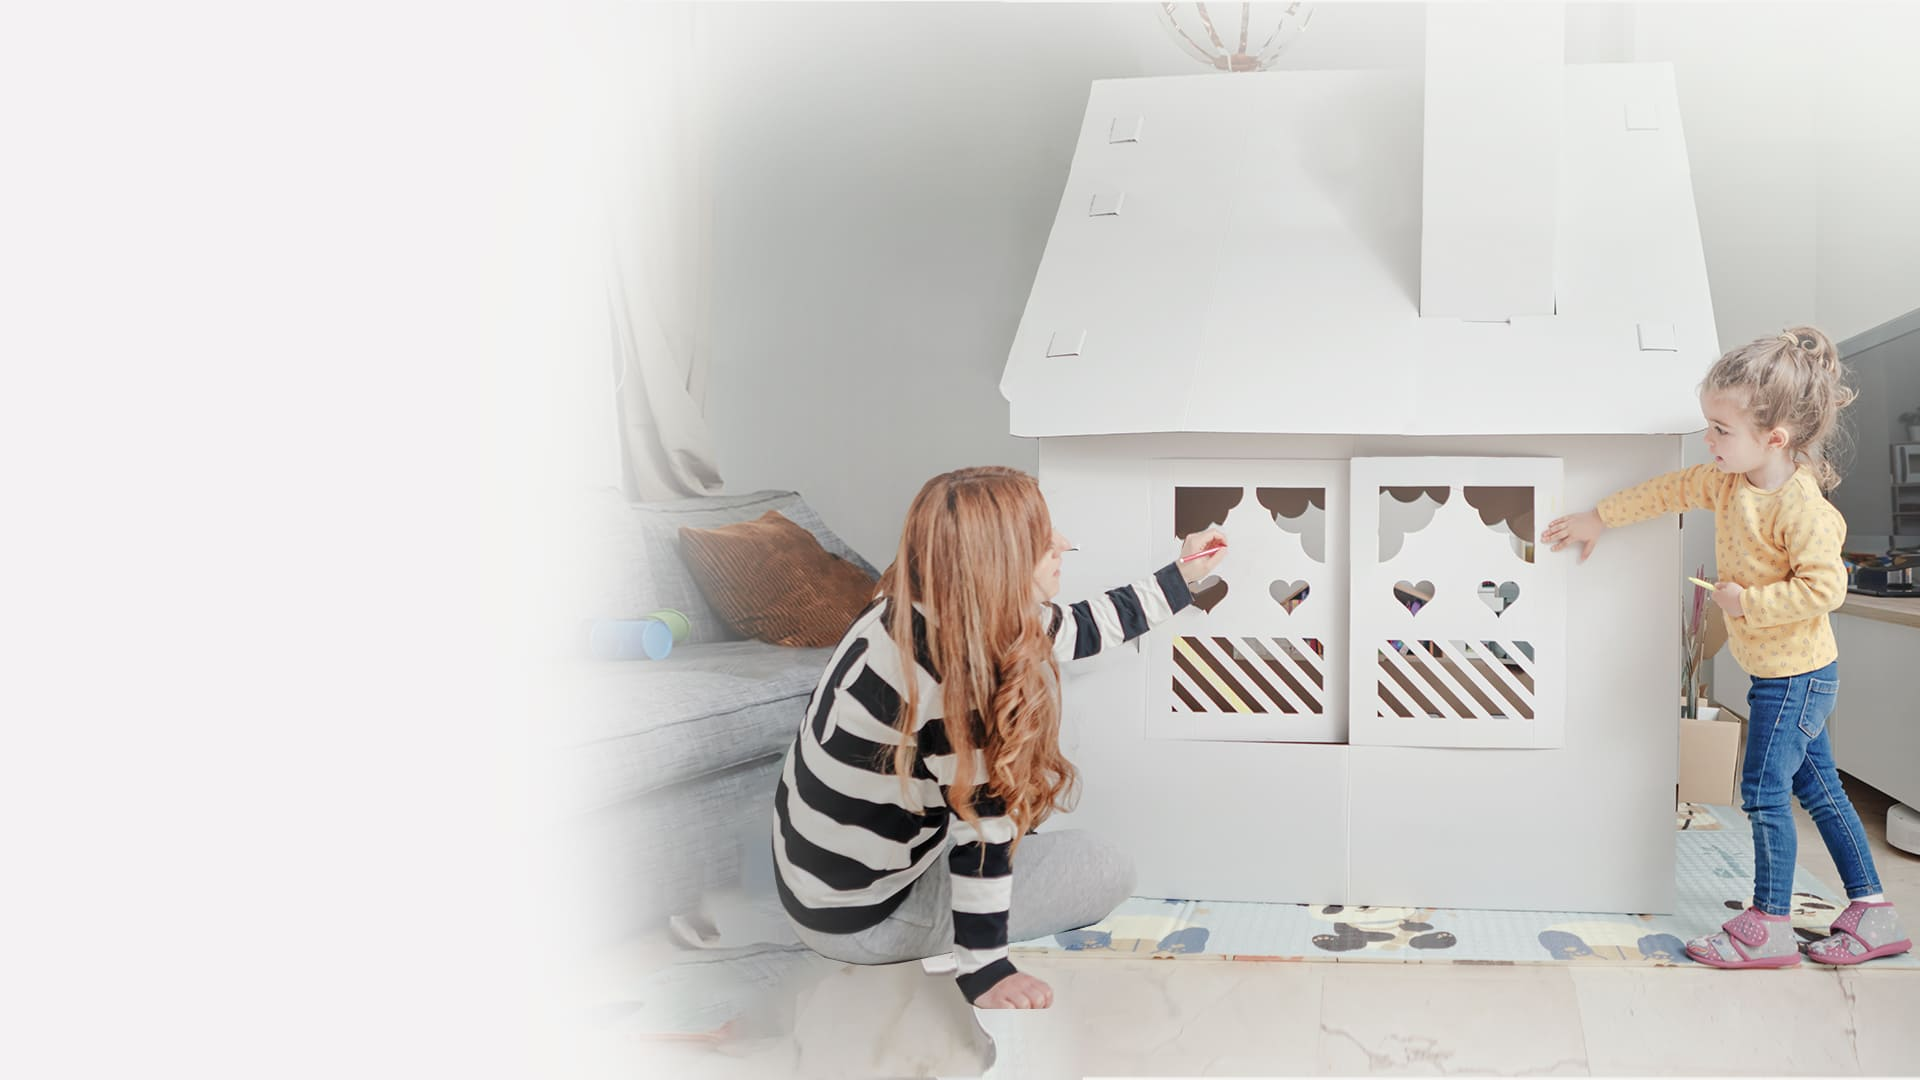
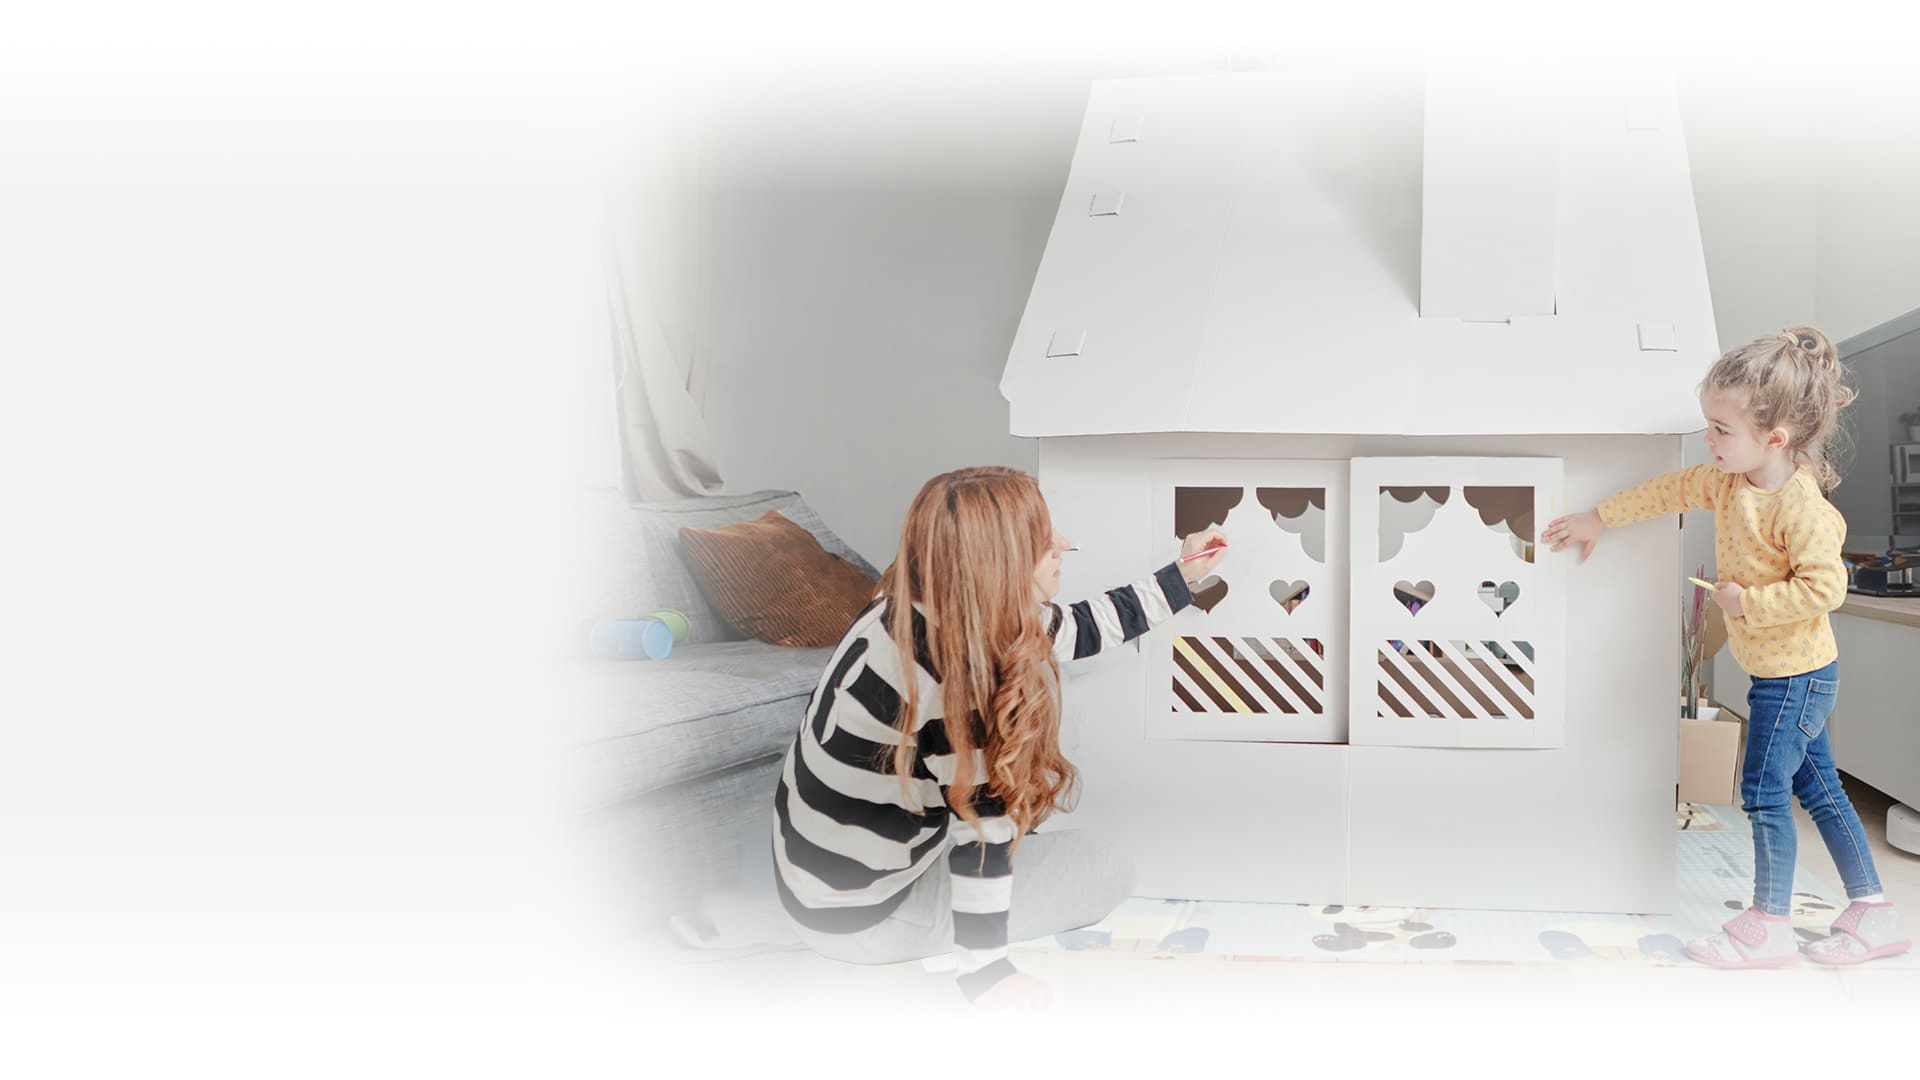
240x400

Changed region(s): [[0.3125, 0.7639, 1.0, 1.0], [0.375, 0.0, 0.75, 0.1528], [0.8125, 0.0, 0.875, 0.0611]]

diff --git a/portfolio/VTB24/ipoteka/matkap/240x400/index.css b/portfolio/VTB24/ipoteka/matkap/240x400/index.css
@@ -36,23 +36,26 @@ body {
 .banner {
   position: relative;
   cursor: pointer;
+  border: 1px solid;
+  box-sizing: border-box;
+  background: #fff;
 }
 
 .background {
   position: absolute;
   width: 100%;
-  height: 100%;
-  top: 0;
+  height: 65%;
+  top: 33px;
   z-index: 1;
   -o-object-fit: cover;
      object-fit: cover;
-  -o-object-position: right;
-     object-position: right;
+  -o-object-position: -210px 0;
+     object-position: -210px 0;
 }
 
 .background_second-slide {
   transform: scale(1.15) translateX(-15px);
-  transition: 10s linear;
+  transition: 7s linear;
 }
 
 .background_third-slide {
@@ -74,7 +77,7 @@ body {
 .plate {
   width: 240px;
   position: absolute;
-  bottom: 50px;
+  bottom: 30px;
   z-index: 1;
   left: -20px;
   transform: translateX(-100%);
@@ -85,51 +88,15 @@ body {
   width: 130px;
   position: absolute;
   z-index: 2;
-  bottom: 25px;
+  bottom: 5px;
   right: 65px;
   transition: 1s cubic-bezier(0.31, -0.26, 0.52, 1.38);
   transform: scale(0);
 }
 
 .percent_modif {
-  bottom: 75px;
+  bottom: 55px;
   right: 75px;
-}
-
-@-webkit-keyframes scale {
-  0% {
-    transform: scale(1);
-  }
-  50% {
-    transform: scale(1.07);
-  }
-  100% {
-    transform: scale(1);
-  }
-}
-
-@keyframes scale {
-  0% {
-    transform: scale(1);
-  }
-  50% {
-    transform: scale(1.07);
-  }
-  100% {
-    transform: scale(1);
-  }
-}
-.scale-anim {
-  -webkit-animation: scale;
-          animation: scale;
-  -webkit-animation-duration: 10s;
-          animation-duration: 10s;
-  -webkit-animation-iteration-count: infinite;
-          animation-iteration-count: infinite;
-  -webkit-animation-fill-mode: both;
-          animation-fill-mode: both;
-  -webkit-animation-timing-function: ease-in-out;
-          animation-timing-function: ease-in-out;
 }
 
 .title {
@@ -137,7 +104,7 @@ body {
   display: flex;
   flex-direction: column;
   color: #fff;
-  bottom: 63px;
+  bottom: 43px;
   left: 10px;
   z-index: 3;
   margin: 0;
@@ -166,12 +133,12 @@ body {
 .description {
   font-family: "VTB", sans-serif;
   font-weight: 400;
-  width: 170px;
+  width: 130px;
   font-size: 16px;
   line-height: 1.2;
   position: absolute;
   font-weight: 300;
-  bottom: 60px;
+  bottom: 39px;
   left: 10px;
   z-index: 4;
   color: #fff;
@@ -182,7 +149,7 @@ body {
 
 .description-three {
   width: 150px;
-  bottom: 120px;
+  bottom: 100px;
   font-size: 16px;
 }
 .description-three span {
@@ -194,19 +161,19 @@ body {
   z-index: 1;
   width: 50px;
   max-height: 100px;
-  bottom: 60px;
+  bottom: 44px;
   left: 135px;
   transition: 0.5s ease-out;
   opacity: 0;
 }
 
 #documents {
-  left: 192px;
+  left: 138px;
 }
 
 .button {
   font-family: "VTB", sans-serif;
-  font-size: 24px;
+  font-size: 20px;
   font-weight: 300;
   letter-spacing: 1px;
   text-transform: uppercase;
@@ -218,7 +185,7 @@ body {
   color: #fff;
   background: #00aaff;
   border: none;
-  border-radius: 5px;
+  border-radius: 10px;
   transition: 0.3s;
   transform: translateX(200px);
 }
@@ -237,6 +204,10 @@ body {
   z-index: 10;
   opacity: 0;
   transition: 1s;
+}
+
+.disclamer_bolder {
+  font-weight: 400;
 }
 
 .disclamer__text {

diff --git a/portfolio/VTB24/ipoteka/matkap/240x400/index.scss b/portfolio/VTB24/ipoteka/matkap/240x400/index.scss
@@ -14,21 +14,24 @@ body {
 .banner {
     position: relative;
     cursor: pointer;
+    border: 1px solid;
+    box-sizing: border-box;
+    background: #fff;
 }
 
 .background {
     position: absolute;
     width: 100%;
-    height: 100%;
-    top: 0;
+    height: 65%;
+    top: 33px;
     z-index: 1;
     object-fit: cover;
-    object-position: right;
+    object-position: -210px 0;
 }
 
 .background_second-slide {
     transform: scale(1.15) translateX(-15px);
-    transition: 10s linear;
+    transition: 7s linear;
 }
 .background_third-slide {
     transform: scale(1.25) translateX(-23px);
@@ -48,7 +51,7 @@ body {
 .plate {
     width: 240px;
     position: absolute;
-    bottom: 50px;
+    bottom: 30px;
     z-index: 1;
     left: -20px;
     transform: translateX(-100%);
@@ -59,35 +62,15 @@ body {
     width: 130px;
     position: absolute;
     z-index: 2;
-    bottom: 25px;
+    bottom: 5px;
     right: 65px;
     transition: 1s cubic-bezier(0.31, -0.26, 0.52, 1.38);
     transform: scale(0);
 }
 
 .percent_modif {
-    bottom: 75px;
+    bottom: 55px;
     right: 75px;
-}
-
-@keyframes scale {
-    0% {
-        transform: scale(1);
-    }
-    50% {
-        transform: scale(1.07);
-    }
-    100% {
-        transform: scale(1);
-    }
-}
-
-.scale-anim {
-    animation: scale;
-    animation-duration: 10s;
-    animation-iteration-count: infinite;
-    animation-fill-mode: both;
-    animation-timing-function: ease-in-out;
 }
 
 .title {
@@ -95,7 +78,7 @@ body {
     display: flex;
     flex-direction: column;
     color: #fff;
-    bottom: 63px;
+    bottom: 43px;
     left: 10px;
     z-index: 3;
     margin: 0;
@@ -124,12 +107,12 @@ body {
 .description {
     font-family: "VTB", sans-serif;
     font-weight: 400;
-    width: 170px;
+    width: 130px;
     font-size: 16px;
     line-height: 1.2;
     position: absolute;
     font-weight: 300;
-    bottom: 60px;
+    bottom: 39px;
     left: 10px;
     z-index: 4;
     color: #fff;
@@ -140,7 +123,7 @@ body {
 
 .description-three {
     width: 150px;
-    bottom: 120px;
+    bottom: 100px;
     font-size: 16px;
 
     span {
@@ -153,19 +136,19 @@ body {
     z-index: 1;
     width: 50px;
     max-height: 100px;
-    bottom: 60px;
+    bottom: 44px;
     left: 135px;
     transition: 0.5s ease-out;
     opacity: 0;
 }
 
 #documents {
-    left: 192px;
+    left: 138px;
 }
 
 .button {
     font-family: "VTB", sans-serif;
-    font-size: 24px;
+    font-size: 20px;
     font-weight: 300;
     letter-spacing: 1px;
     text-transform: uppercase;
@@ -177,7 +160,7 @@ body {
     color: #fff;
     background: #00aaff;
     border: none;
-    border-radius: 5px;
+    border-radius: 10px;
     transition: 0.3s;
     transform: translateX(200px);
 
@@ -197,6 +180,10 @@ body {
     z-index: 10;
     opacity: 0;
     transition: 1s;
+}
+
+.disclamer_bolder {
+    font-weight: 400;
 }
 
 .disclamer__text {

diff --git a/portfolio/VTB24/ipoteka/matkap/240x400/index.html b/portfolio/VTB24/ipoteka/matkap/240x400/index.html
@@ -46,7 +46,7 @@
                 и&nbsp;СНИЛС) без надбавки к&nbsp;ставке. Возможность использования материнского капитала для первоначального взноса или досрочного
                 погашения ипотеки. Условия действительны на&nbsp;23.05.22&nbsp;г. Банк вправе отказать в&nbsp;предоставлении кредита без объяснения
                 причин. Банк предоставляет кредит в&nbsp;случае, если заемщик (созаемщик/поручитель, при наличии) соответствует требованиям
-                госпрограммы и&nbsp;Банка и&nbsp;предоставил полный пакет необходимых документов. Банк ВТБ (ПАО). Ген. лицензия ЦБ&nbsp;РФ
+                госпрограммы и&nbsp;Банка и&nbsp;предоставил полный пакет необходимых документов. <span class="disclamer_bolder">Банк ВТБ (ПАО)</span>. Ген. лицензия ЦБ&nbsp;РФ
                 &#8470;&nbsp;1000. Реклама.&nbsp;0+
             </p>
         </div>

diff --git a/portfolio/VTB24/ipoteka/minpay/240x400/index.scss b/portfolio/VTB24/ipoteka/minpay/240x400/index.scss
@@ -148,7 +148,7 @@ body {
 
 .button {
     font-family: "VTB", sans-serif;
-    font-size: 24px;
+    font-size: 20px;
     font-weight: 300;
     letter-spacing: 1px;
     text-transform: uppercase;

diff --git a/portfolio/VTB24/ipoteka/minpay/240x400/index.css b/portfolio/VTB24/ipoteka/minpay/240x400/index.css
@@ -173,7 +173,7 @@ body {
 
 .button {
   font-family: "VTB", sans-serif;
-  font-size: 24px;
+  font-size: 20px;
   font-weight: 300;
   letter-spacing: 1px;
   text-transform: uppercase;
